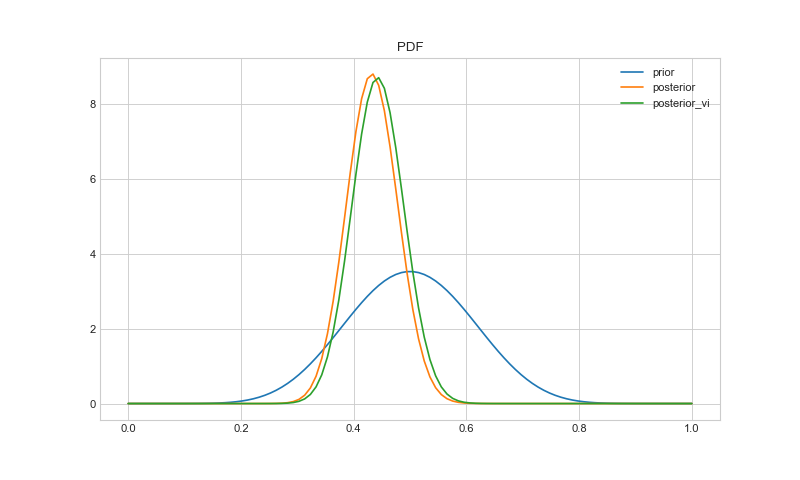
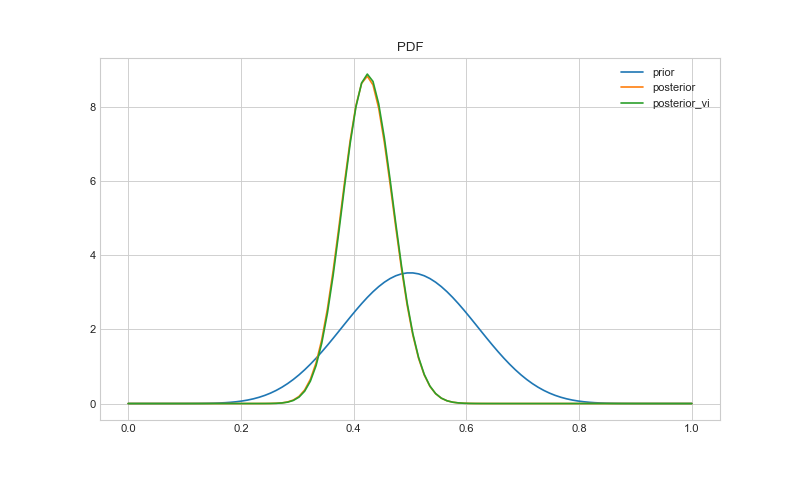
Beta distribution article markdowns

diff --git a/FitDistWithPyro/fit_beta_distribution.py b/FitDistWithPyro/fit_beta_distribution.py
@@ -1,11 +1,12 @@
 # %% [markdown]
-# # Fitting a Distribution with Pyro
+# # Fitting a Beta Distribution with Pyro
 #
-# In this simple example we will fit a Gaussian distribution to random data from a gaussian with some known mean and standard deviation.
-# We want to estimate a distribution that best fits the data using variational inference with Pyro.
-#
+# Here we assume we are flipping a slightly biased coin.
+# We think the probability of a heads is close to 0.5, but we are not sure.
+# We want to fit a beta distribution to the random observed data.
+# 
 # References:
-#   * [https://pyro.ai/examples/intro_part_ii.html](https://pyro.ai/examples/intro_part_ii.html)
+#   * [http://pyro.ai/examples/svi_part_i.html](http://pyro.ai/examples/svi_part_i.html)
 #
 # Import the required libraries:
 # %% Fit beta posterior
@@ -30,51 +31,43 @@ true_dist = dist.Bernoulli(0.4)
 n = 100
 data = true_dist.sample(sample_shape=(n, 1))
 # %% [markdown]
-# ## Generate observed data
-# We use the distribution module of pytorch to generate random data from Bernoulli trials with a known probability of success $$P(p)=0.4$$.
+# ## Prior distribution
+# We propose the probability of a heads comes from a beta distribution.
+# We assume that the probability is close to 0.5 but with some error.
+# This is characterised in the prior distribution as follows:
 # %%
-# Prior distribution
 prior = dist.Beta(10, 10)
 
+plt.figure(num=None, figsize=(10, 6), dpi=80)
+x_range = np.linspace(0, 1, num=100)
+
+y_values = torch.exp(prior.log_prob(torch.tensor(x_range)))
+plt.plot(x_range, y_values, label="prior")
+
+plt.title("PDF")
+plt.legend()
+plt.savefig("images/beta_prior_pdf.png")
+plt.show()
+# %% [markdown]
+# ![](images/beta_prior_pdf.png)
+#
+# ## Analytical Posterior
+# Using the random data we have generated, we can calculate the posterior distribution.
+# In the case of a beta distribution - the posterior has an analytical solution,
+# based on conjugacy:
 # %%
 # Analytical posterior
 posterior = dist.Beta(
     prior.concentration1 + data.sum(),
     prior.concentration0 + len(data) - data.sum(),
 )
-
-
-
+# %% [markdown]
+# ## Variational inference
+# We can solve the same problem with variational inference using `pyro`.
+# We setup the model to sample from a Bernoulli trial,
+# where the probability of a heads comes from a beta distribution.
+# The model is conditioned to give the generated data when it is sampled from.
 # %%
-if 0:
-    posterior = prior
-    idx = 0
-    block_idx = np.arange(len(data)).reshape(10, -1)
-
-# %%
-if 0:
-    # Step one at a time
-    # print(data[:idx])
-    data_temp = data[block_idx[idx]]
-    posterior = dist.Beta(
-        posterior.concentration1 + data_temp.sum(),
-        posterior.concentration0 + len(data_temp) - data_temp.sum(),
-    )
-    idx += 1
-
-    plt.figure(num=None, figsize=(10, 6), dpi=80)
-    x_range = np.linspace(0, 1, num=100)
-    y_values = torch.exp(posterior.log_prob(torch.tensor(x_range)))
-    plt.plot(x_range, y_values, label="posterior")
-    y_values = torch.exp(prior.log_prob(torch.tensor(x_range)))
-    plt.plot(x_range, y_values, label="prior")
-    plt.title("PDF")
-    plt.legend()
-    # plt.savefig("images/std_dist.png")
-    plt.show()
-
-# %%
-# Variational inference
 def data_model(params):
     # returns a Bernoulli trial outcome
     beta = pyro.sample("beta_dist", dist.Beta(params[0], params[1]))
@@ -82,8 +75,10 @@ def data_model(params):
 
 
 conditioned_data_model = pyro.condition(data_model, data={"data_dist": data})
-
-
+# %% [markdown]
+# The guide function creates a pyro beta distribution object given a set of parameters,
+# which we will track.
+# %%
 def guide(params):
     # returns the Bernoulli probablility
     alpha = pyro.param(
@@ -93,8 +88,10 @@ def guide(params):
         "beta", torch.tensor(params[1]), constraint=constraints.positive
     )
     return pyro.sample("beta_dist", dist.Beta(alpha, beta))
-
-
+# %% [markdown]
+# We iterate over the above functions, starting from our prior distribution.
+# Each step we converge towards an ideal posterior form of the guide.
+# %%
 svi = pyro.infer.SVI(
     model=conditioned_data_model,
     guide=guide,
@@ -104,7 +101,7 @@ svi = pyro.infer.SVI(
 
 params_prior = [prior.concentration1, prior.concentration0]
 
-# Iterate over all the data
+# Iterate over all the data and store results
 losses, alpha, beta = [], [], []
 pyro.clear_param_store()
 
@@ -115,15 +112,23 @@ for t in range(num_steps):
     beta.append(pyro.param("beta").item())
 
 posterior_vi = dist.Beta(alpha[-1], beta[-1])
-
+# %% [markdown]
+# We plot the trajectories of the parameters to show they have converged sufficiently:
 # %%
-# plt.plot(alpha)
-# plt.plot(beta)
-# plt.plot(losses)
-
-
+plt.figure(num=None, figsize=(10, 6), dpi=80)
+plt.plot(alpha, label='alpha')
+plt.plot(beta, label='beta')
+plt.title("Parameter trajectories")
+plt.xlabel("Iteration")
+plt.legend()
+plt.savefig("images/beta_trajectories.png")
+plt.show()
+# %% [markdown]
+# ![](images/beta_trajectories.png)
+#
+# ## Comparing distributions
+# We can compare the variational inference distribution to the analytical posterior.
 # %%
-# Plot results
 plt.figure(num=None, figsize=(10, 6), dpi=80)
 x_range = np.linspace(0, 1, num=100)
 
@@ -140,3 +145,7 @@ plt.title("PDF")
 plt.legend()
 plt.savefig("images/beta_pdfs.png")
 plt.show()
+# %% [markdown]
+# ![](images/beta_pdfs.png)
+# 
+# The estimated posterior from variational inference is very similar to the analytical posterior.

diff --git a/BayesianRegression/regression_with_pytorch.py b/BayesianRegression/regression_with_pytorch.py
@@ -1,0 +1,139 @@
+# %% [markdown]
+# # Regression with Pytorch
+# 
+# First we generate random data to test our models.
+# 
+# We generate $$m$$ random features, $$X$$ from a Gaussian distribution.
+# We append a column of ones to the front to act as our constant term.
+# We then generate a set of random $$m+1$$ values to form our model weights.
+# 
+# Then we form our output by creating a linear weighted sum of our features:
+# $$y_i = \sum_m X_{i,m} * w_m + e_i$$
+# 
+# We have added some Gaussian noise to create some uncertainty around of model estimates.
+
+# %% generate regression data
+import numpy as np
+
+# independent features
+n = 1000
+m = 10
+features = np.random.randn(n, m)
+
+X = np.concatenate((np.ones((n, 1)), features), axis=1)
+w = np.random.randn(m + 1, 1)
+e = np.random.randn(n, 1)
+y = X @ w + e
+# %% [markdown]
+# ## Statsmodels approach
+# 
+# With `statsmodels` we can apply the ordinary least squares solution to the above data to recover estimates of the weights, $w$.
+
+# %% Linear regression with statsmodels
+import statsmodels.api as sm
+
+results = sm.OLS(y, X).fit()
+print(results.summary())
+# %% [markdown]
+# ## Pytorch approach
+# 
+# We can solve the same linear regression problem in `pytorch`.
+# 
+# The ordinary least squares method above minimise the negative likelihood function. In this case it is the MSE:
+# $$loss = \sum_i (y-\hat{y})^2$$
+# Minimising a function is a generic problem we can solve using the gradient descent method.
+# This can be implemented by libraries such as pytorch.
+# 
+# The problem is decomposed into a few steps:
+# * Given an estimate of the model weights, we predict what our output, $$y$$, should be.
+# * Calculate a loss function based on the difference between our prediction and the actual output. We use the above MSE function.
+# * Update the model weights to improve the loss function.
+# * Iterate the above until the weights have converged.
+# 
+# 
+# We will apply this in pytorch.
+# Pytorch has its own internal memory structures so we need to convert from our numpy arrays to torch tensors using `from_numpy()`.
+# The weights estimates are initialised randomly. We require that the gradients are calculated for the weights so we use the `requires_grad` flag.
+# 
+# We use the stochastic gradient descent optimiser to update the weights, the learning rate needs to be chosen appropriately.
+# 
+# The forward step calculates the output of the network.
+# The loss function is setup using pytorch functions which run over the tensor objects and allow the gradients to be calculated automatically.
+# 
+# The gradients need to be reset each iteration as PyTorch accumulates the gradients on subsequent backward passes.
+# The backwards step calculates the gradients automatically.
+# 
+# The optimizer object then updates the model weights to minimise the loss function.
+# 
+# We iterate over the data 100 times, at which point the weights have converged.
+
+# %%
+import torch
+import torch.optim as optim
+
+X_t = torch.from_numpy(X)
+y_t = torch.from_numpy(y)
+
+w_t = torch.randn(m + 1, 1, dtype=torch.float64, requires_grad=True)
+learning_rate = 5e-5
+optimizer = optim.SGD([w_t], lr=learning_rate, momentum=0.0)
+optimizer.zero_grad()
+
+loss_values = []
+
+for t in range(100):
+    # Forward pass
+    y_pred = X_t.mm(w_t)
+
+    # Compute and print loss
+    loss = (y_pred - y_t).pow(2).sum()
+    loss_values.append(loss.item())
+
+    optimizer.zero_grad()
+    loss.backward()
+    optimizer.step()
+
+loss_values = np.array(loss_values)
+# %% [markdown]
+# The loss function from optimisation shows a consistent decrease as it converges:
+
+# %%
+import seaborn as sns
+import matplotlib.pyplot as plt
+
+sns.set_style("whitegrid")
+plt.style.use("seaborn-whitegrid")
+
+plt.figure(num=None, figsize=(10, 6), dpi=80)
+plt.plot(range(len(loss_values)), loss_values)
+plt.xlabel('Iteration')
+plt.ylabel('Loss')
+plt.yscale('log')
+plt.savefig("images/loss.png")
+plt.show()
+# %% [markdown]
+# ![](images/loss.png)
+# 
+
+# %% Results weights are equivalent to statsmodels
+print(w)
+print(w_t.flatten())
+print(results.params.flatten())
+print(results.summary())
+
+plt.scatter(np.arange(len(w)), w)
+plt.scatter(np.arange(len(w)), w_t.flatten().detach().numpy())
+plt.scatter(np.arange(len(w)), results.params.flatten())
+
+
+
+# %% [markdown]
+
+
+# %% Create pytorch class
+
+# %% Curveball
+# %% New data set?
+
+
+# 
